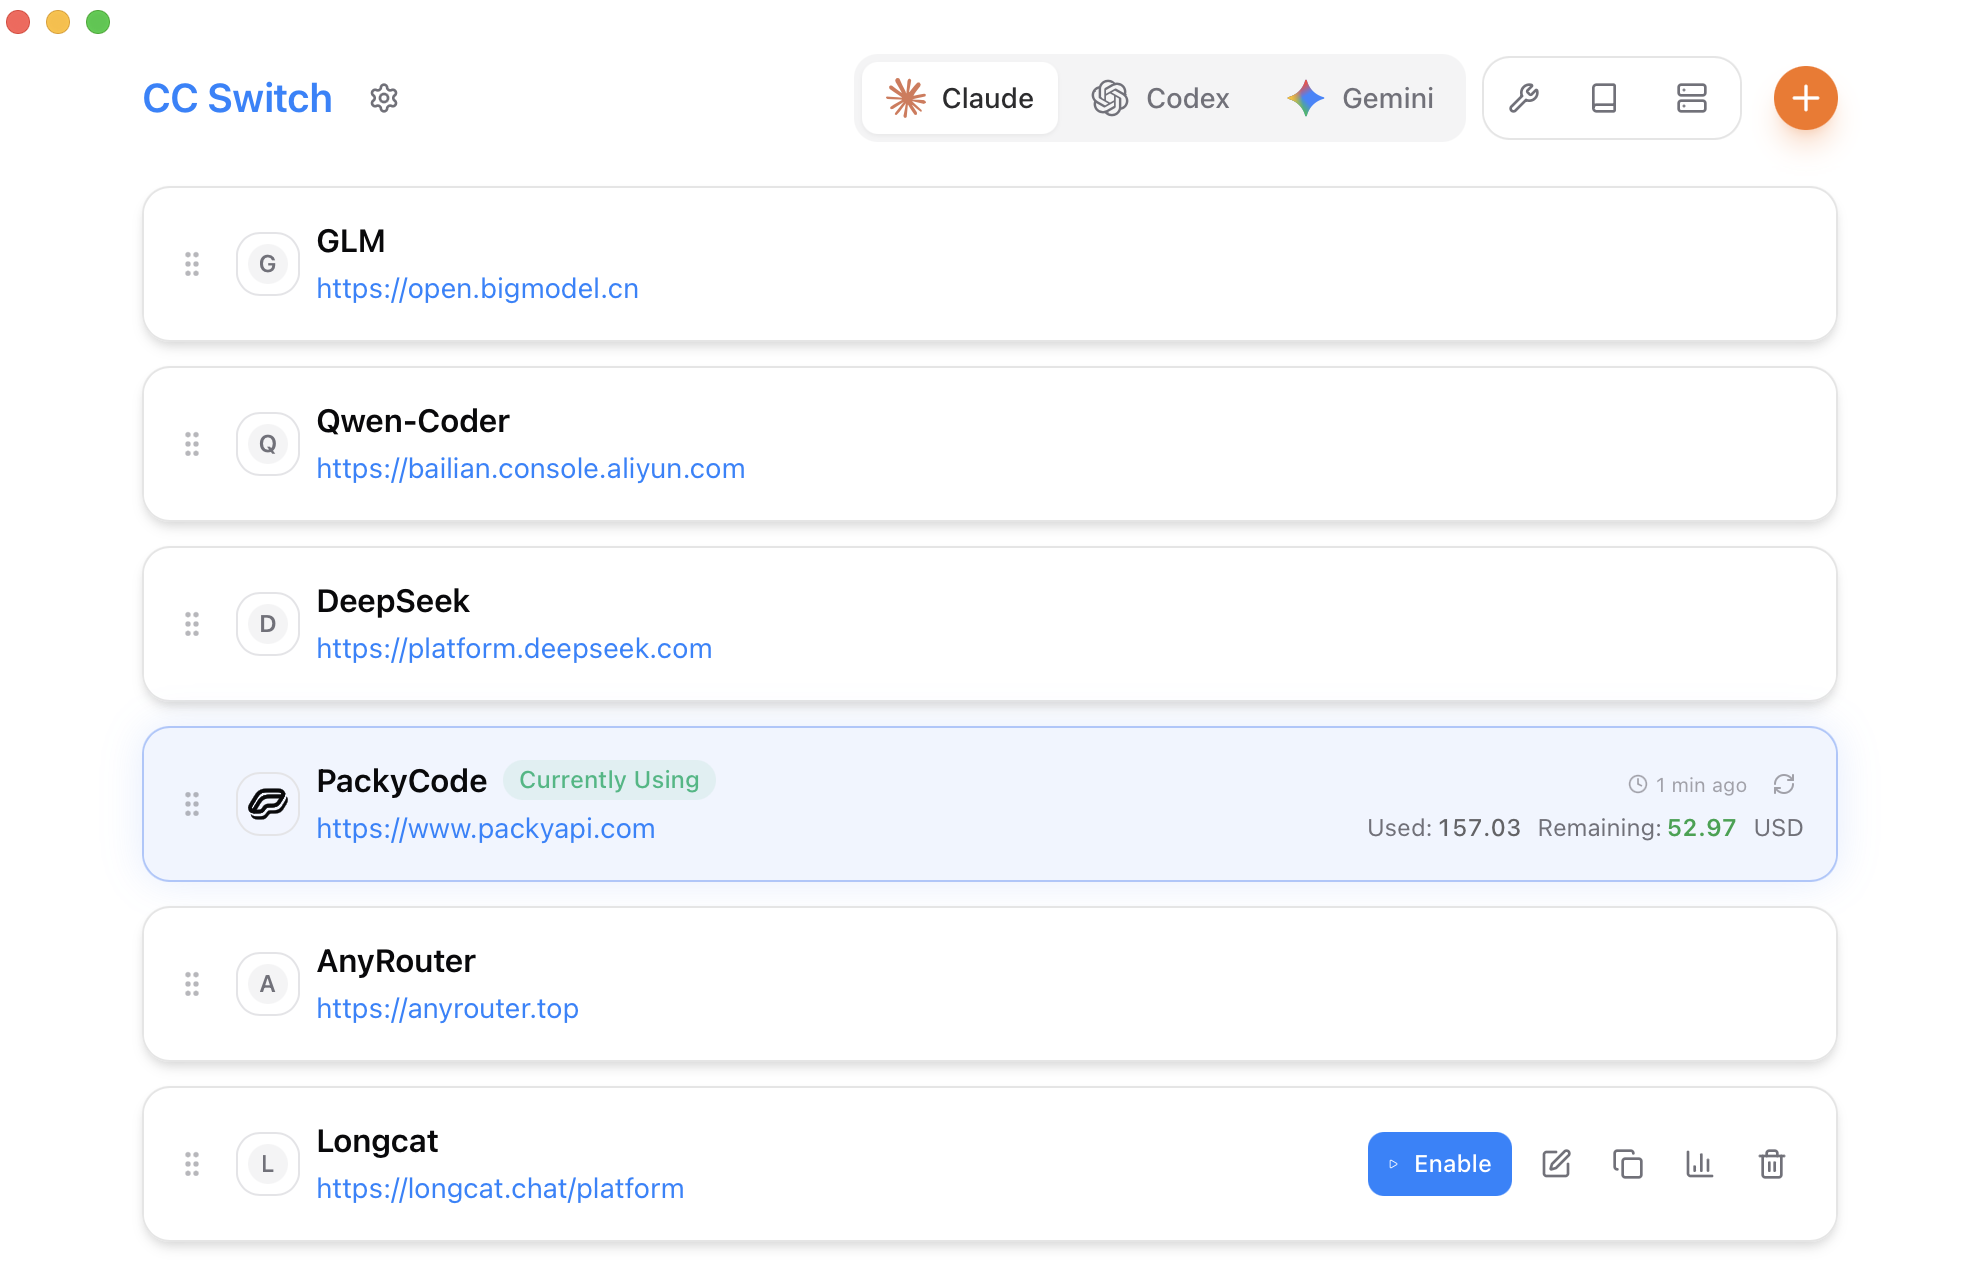
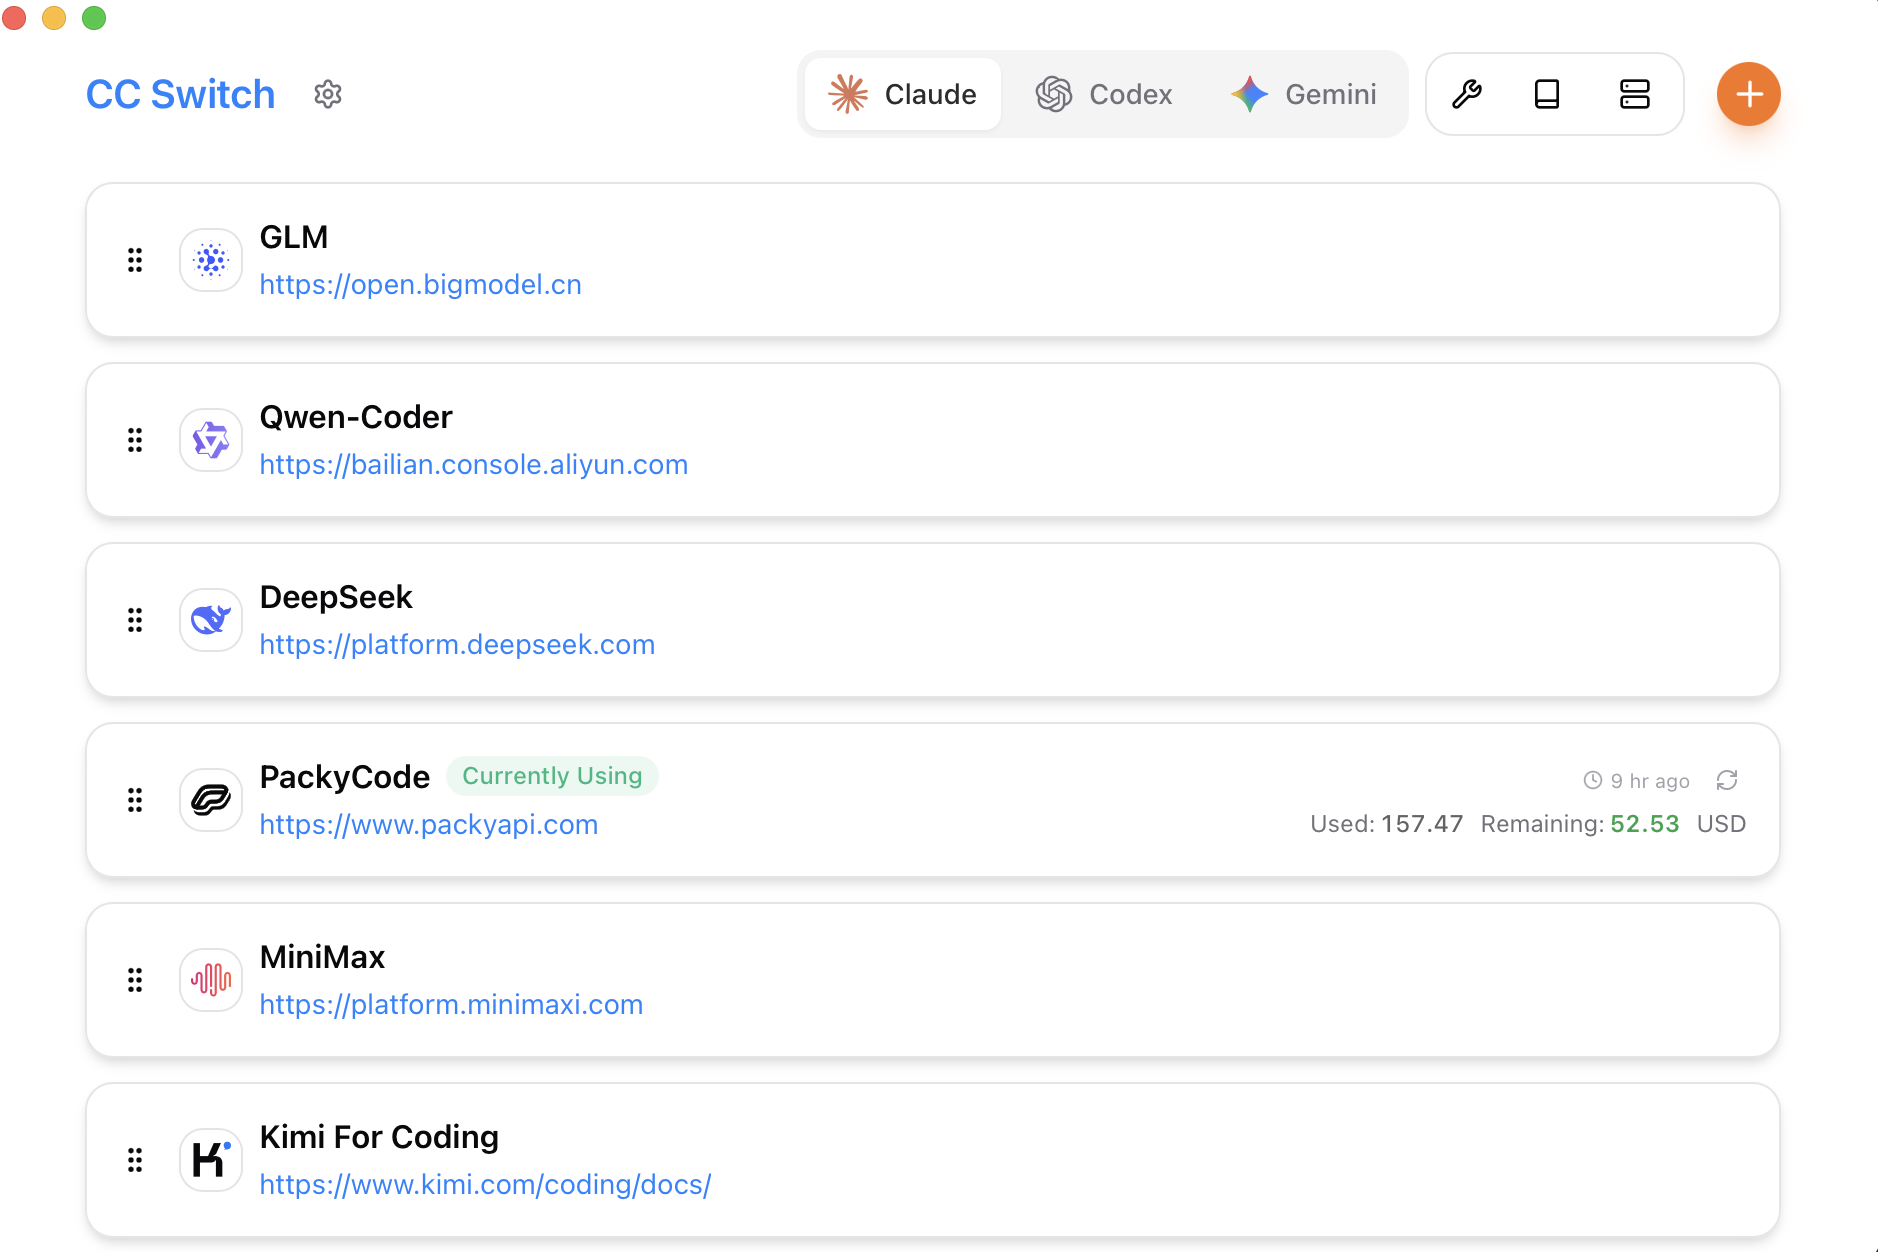
fix(config): correct MiniMax apiKeyUrl to minimaxi.com
Update apiKeyUrl domain to match official website URL.
Also update screenshots for all locales (en, ja, zh).

diff --git a/src/config/claudeProviderPresets.ts b/src/config/claudeProviderPresets.ts
@@ -232,7 +232,7 @@ export const providerPresets: ProviderPreset[] = [
   {
     name: "MiniMax",
     websiteUrl: "https://platform.minimaxi.com",
-    apiKeyUrl: "https://platform.minimax.com/subscribe/coding-plan",
+    apiKeyUrl: "https://platform.minimaxi.com/subscribe/coding-plan",
     settingsConfig: {
       env: {
         ANTHROPIC_BASE_URL: "https://api.minimaxi.com/anthropic",
